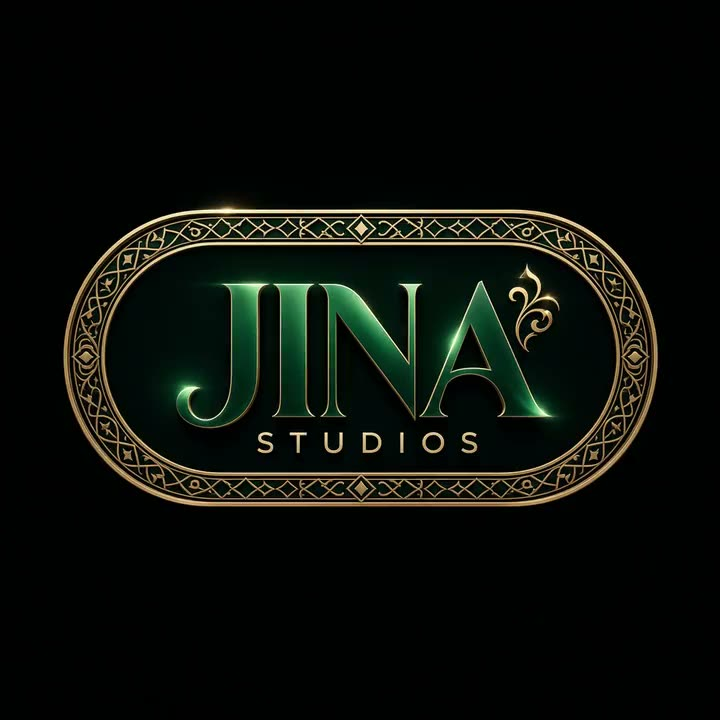
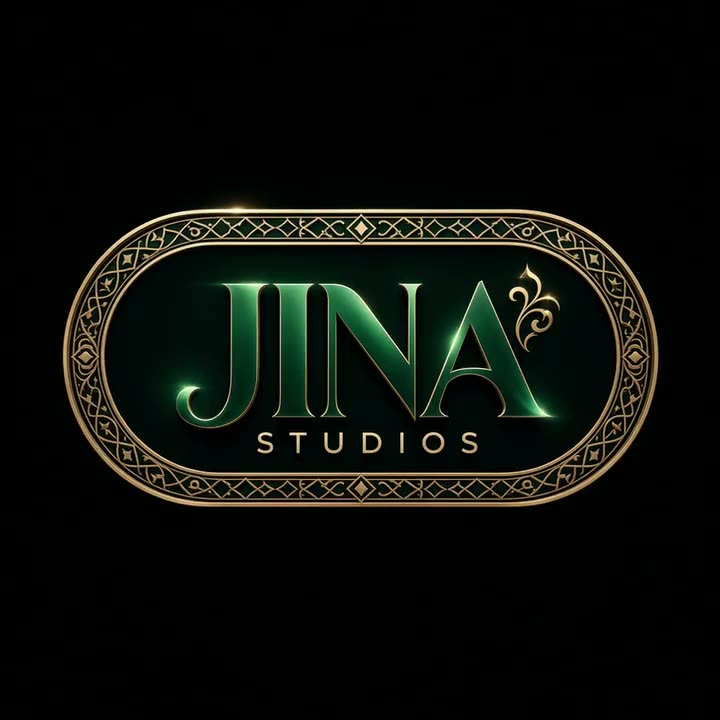
Intro JINA à la taille de Bocaboz, « Touche pour passer », écran de bienvenue resserré

Changed region(s): [[0.0611, 0.275, 0.9167, 0.7028], [0.2444, 0.55, 0.275, 0.5806]]

diff --git a/css/nour.css b/css/nour.css
@@ -626,8 +626,14 @@ body.avec-onglets .app{padding-bottom:calc(110px + var(--sb))}
 .suppr-q{position:absolute;top:14px;right:12px;background:none;border:0;color:var(--doux);padding:6px;cursor:pointer}
 
 /* ---------- Animation d'ouverture JINA Studios (2026-11-20) ---------- */
-#intro{position:fixed;inset:0;z-index:1000;background:#010101;display:flex;align-items:center;justify-content:center;transition:opacity .6s ease}
-#intro video{width:min(100vw,560px);aspect-ratio:1;object-fit:cover;background:#010101;pointer-events:none}
+/* 2026-11-20 : même durée (6 s) et même taille de logo JINA que Bocaboz, même « Touche pour passer » ; fond noir */
+#intro{position:fixed;inset:0;z-index:1000;background:#000;display:flex;align-items:center;justify-content:center;transition:opacity .5s ease}
+/* Vidéo Darsi (logo JINA vert et doré, carrée) : le logo y occupe 93 % de la largeur ; dans Bocaboz il occupe 75 % de l'écran.
+   Largeur de la vidéo = 75/93 = 80,6 % de l'écran (et 59,6 % de la hauteur au plus, comme Bocaboz sur les écrans larges). */
+#intro video{width:min(67.7vw,50vh);height:auto;aspect-ratio:1;object-fit:contain;background:#000;pointer-events:none}   /* hauteur du logo = celle de Bocaboz (125 px sur un écran de 390) */
+#intro video::-webkit-media-controls,#intro video::-webkit-media-controls-overlay-play-button,#intro video::-webkit-media-controls-start-playback-button{display:none!important;-webkit-appearance:none}
+#intro .op-skip{position:absolute;left:0;right:0;bottom:calc(22px + var(--sb));text-align:center;color:rgba(255,255,255,.45);font:600 13px var(--corps);opacity:0;animation:opSkip .5s ease-out 1.5s forwards}
+@keyframes opSkip{to{opacity:1}}
 #intro.fin{opacity:0;pointer-events:none}
 
 /* ---------- Qibla : écran sans défilement, puces d'info, styles à faire glisser (2026-11-20) ---------- */
@@ -729,3 +735,20 @@ body.ecran-qibla{overflow:hidden;overscroll-behavior:none}
 .logo-darsi{display:inline-block;width:min(74vw,320px);height:auto;filter:drop-shadow(0 6px 18px rgba(0,0,0,.35))}
 .marque h1{line-height:0;background:none;-webkit-background-clip:border-box;background-clip:border-box}
 .logo-darsi.petit{width:auto;height:64px;filter:none}
+
+/* ---------- Écran de bienvenue resserré (2026-11-20) : tout visible sans défiler, logo plus haut et plus petit ---------- */
+#e-bienvenue .heros{padding:4px 0 0}
+#e-bienvenue .logo-titre{margin:-6px 0 0}
+#e-bienvenue .logo-darsi{width:min(54vw,224px)}
+#e-bienvenue .logo-titre+p{margin-top:4px!important;font-size:14.5px;line-height:1.5!important}
+#e-bienvenue .etapes{margin-top:10px;gap:8px;padding:14px 16px}
+#e-bienvenue .heros .heros-lune svg{width:96px;height:96px}
+#e-bienvenue .heros .moucharabieh,#e-bienvenue .heros .moucharabieh svg{width:130px;height:auto}
+/* petits écrans (≤ 780 px de haut) : encore plus compact, tout reste visible */
+@media (max-height:780px){
+  #e-bienvenue .heros{transform:scale(.78);transform-origin:top center;margin-bottom:-34px}
+  #e-bienvenue .logo-darsi{width:min(48vw,196px)}
+  #e-bienvenue .etapes{padding:10px 14px;gap:4px}
+  #e-bienvenue .etape span{display:none}
+  #e-bienvenue .etape .pastille{width:36px;height:36px}
+}

diff --git a/sw.js b/sw.js
@@ -6,7 +6,7 @@
    - Vidéo d'ouverture : servie depuis le cache avec gestion des « plages » (Safari/iPhone l'exige pour les vidéos).
    - Nouvelle version mise en ligne → nouveau cache, l'ancien est supprimé. */
 'use strict';
-const VERSION = '16f3021bb59d';
+const VERSION = 'b1675a1f0d7d';
 const CACHE = 'darsi-' + VERSION, POLICES = 'darsi-polices';
 const FICHIERS = ["./", "apple-touch-icon.png", "contenu/ar-expert.js", "contenu/ar.js", "contenu/calendrier-ar.js", "contenu/calendrier-de.js", "contenu/calendrier-en.js", "contenu/calendrier-es.js", "contenu/calendrier-fr.js", "contenu/calendrier-id.js", "contenu/calendrier-it.js", "contenu/calendrier-nl.js", "contenu/calendrier-tr.js", "contenu/de-expert.js", "contenu/de.js", "contenu/en-expert.js", "contenu/en.js", "contenu/es-expert.js", "contenu/es.js", "contenu/fr-expert.js", "contenu/fr.js", "contenu/id-expert.js", "contenu/id.js", "contenu/invocations-ar.js", "contenu/invocations-de.js", "contenu/invocations-en.js", "contenu/invocations-es.js", "contenu/invocations-fr.js", "contenu/invocations-id.js", "contenu/invocations-it.js", "contenu/invocations-nl.js", "contenu/invocations-tr.js", "contenu/it-expert.js", "contenu/it.js", "contenu/legal-ar.js", "contenu/legal-de.js", "contenu/legal-en.js", "contenu/legal-es.js", "contenu/legal-fr.js", "contenu/legal-id.js", "contenu/legal-it.js", "contenu/legal-nl.js", "contenu/legal-tr.js", "contenu/nl-expert.js", "contenu/nl.js", "contenu/tr-expert.js", "contenu/tr.js", "css/nour.css", "favicon.png", "index.html", "js/app.js", "js/en_ligne.js", "js/geomag.js", "js/i18n.js", "js/icones.js", "js/imam.js", "js/pwa.js", "js/sources.js", "js/structure.js", "media/intro-debut.jpg", "pwa/apple-touch-icon.png", "pwa/icone-192.png", "pwa/icone-512.png", "pwa/index.html", "pwa/logo-darsi.png", "pwa/manifest.webmanifest"];
 

diff --git a/js/app.js b/js/app.js
@@ -135,7 +135,7 @@ function changerLangue(code){S.langue=code;sauver();appliquerLangue();dessinerOn
 /* ---------- Bienvenue ---------- */
 function dessinerBienvenue(){
   $('e-bienvenue').innerHTML=`<div class="haut-droite">${menuLangues()}</div>
-    <div class="heros">${heros(170)}</div>
+    <div class="heros">${heros(104)}</div>   <!-- 2026-11-20 : plus petit, pour que toute la page tienne à l'écran -->
     <h1 class="logo-titre"><img src="pwa/logo-darsi.png" alt="${NOM_APP} — درسي" class="logo-darsi"></h1>   <!-- logo Grok, arabe corrigé (identite/) -->
     <p class="doux" style="text-align:center;margin-top:8px;line-height:1.6">${t('sousTitre')}</p>
     <div class="carte etapes">${[['livre','e1t','e1s'],['cible','e2t','e2s'],['famille','e3t','e3s'],['lanterne','e4t','e4s']]
@@ -1098,11 +1098,13 @@ if((navigator.deviceMemory&&navigator.deviceMemory<=4)||(navigator.hardwareConcu
    Si la vidéo ne peut pas se lire, on entre tout de suite dans l'appli. */
 (function(){
   const z=$('intro'),v=$('intro-v');if(!z)return;
+  const sk=z.querySelector('.op-skip');if(sk)sk.textContent=t('touchePasser');   // « Touche pour passer » dans la langue choisie
   let fini=false;
   const finIntro=()=>{if(fini)return;fini=true;z.classList.add('fin');setTimeout(()=>z.remove(),650)};
   v.addEventListener('ended',finIntro);v.addEventListener('error',finIntro);z.addEventListener('click',finIntro);
   const p=v.play();if(p&&p.catch)p.catch(finIntro);
   setTimeout(finIntro,9000);   // sécurité
+  let lance=false;v.addEventListener('playing',()=>{lance=true});setTimeout(()=>{if(!lance)finIntro()},2500);   // vidéo qui ne démarre pas : pas d'écran noir
 })();
 dessinerCiel();appliquerLangue();dessinerOnglets();
 if(S.demarre||S.prenom)aller('accueil');else dessinerBienvenue();

diff --git a/js/i18n.js b/js/i18n.js
@@ -696,3 +696,8 @@ it:{qEtalonner:"Calibra la bussola: muovi il telefono disegnando un grande 8, lo
 tr:{qEtalonner:"Pusulayı kalibre et: telefonu metal eşyalardan uzakta ve mıknatıslı kılıf olmadan büyük bir 8 çizerek hareket ettir.",qPrecAttente:"Hassasiyet…",qPrecBonne:"Hassasiyet iyi",qPrecMoyenne:"Hassasiyet orta",qPrecFaible:"Hassasiyet düşük",qSansGpsCourt:"GPS yok",qGauche:"Sola dön",qDroite:"Sağa dön",qPosCourt:"Konum aranıyor…",qGpsCourt:"GPS",qApproxCourt:"Yaklaşık",qs_calligraphie:"Hat sanatı",qs_arabesque:"Arabesk",qs_mihrab:"Mihrap",qs_nuit:"Yıldızlı gece",qs_zellige:"Zellige"},
 id:{qEtalonner:"Kalibrasi kompas: gerakkan ponsel membentuk angka 8 besar, jauh dari benda logam dan tanpa casing magnet.",qPrecAttente:"Akurasi…",qPrecBonne:"Akurasi baik",qPrecMoyenne:"Akurasi sedang",qPrecFaible:"Akurasi rendah",qSansGpsCourt:"Tanpa GPS",qGauche:"Putar ke kiri",qDroite:"Putar ke kanan",qPosCourt:"Mencari posisi…",qGpsCourt:"GPS",qApproxCourt:"Perkiraan",qs_calligraphie:"Kaligrafi",qs_arabesque:"Arabes",qs_mihrab:"Mihrab",qs_nuit:"Malam berbintang",qs_zellige:"Zellige"}};
 for(const l in I18N_QIBLA2)Object.assign(I18N[l],I18N_QIBLA2[l]);
+
+/* Intro JINA Studios : « toucher pour passer » (2026-11-20) */
+const I18N_INTRO={fr:{touchePasser:"Touche pour passer"},en:{touchePasser:"Tap to skip"},ar:{touchePasser:"المس للتخطي"},de:{touchePasser:"Tippen zum Überspringen"},
+ nl:{touchePasser:"Tik om over te slaan"},es:{touchePasser:"Toca para saltar"},it:{touchePasser:"Tocca per saltare"},tr:{touchePasser:"Geçmek için dokun"},id:{touchePasser:"Ketuk untuk melewati"}};
+for(const l in I18N_INTRO)Object.assign(I18N[l],I18N_INTRO[l]);

diff --git a/index.html b/index.html
@@ -17,7 +17,7 @@
 </head>
 <body>
 <!-- Animation d'ouverture JINA Studios : jouée en premier à chaque lancement, puis on entre dans l'appli (js/app.js, finIntro) -->
-<div id="intro"><video id="intro-v" src="media/intro.mp4" poster="media/intro-debut.jpg" muted playsinline autoplay preload="auto" disablepictureinpicture></video></div>
+<div id="intro"><video id="intro-v" src="media/intro.mp4" poster="media/intro-debut.jpg" muted playsinline webkit-playsinline autoplay preload="auto" disablepictureinpicture></video><div class="op-skip">Touche pour passer</div></div>
 <div class="ciel" id="ciel"></div>
 <div class="motif"></div>
 <div class="app">
